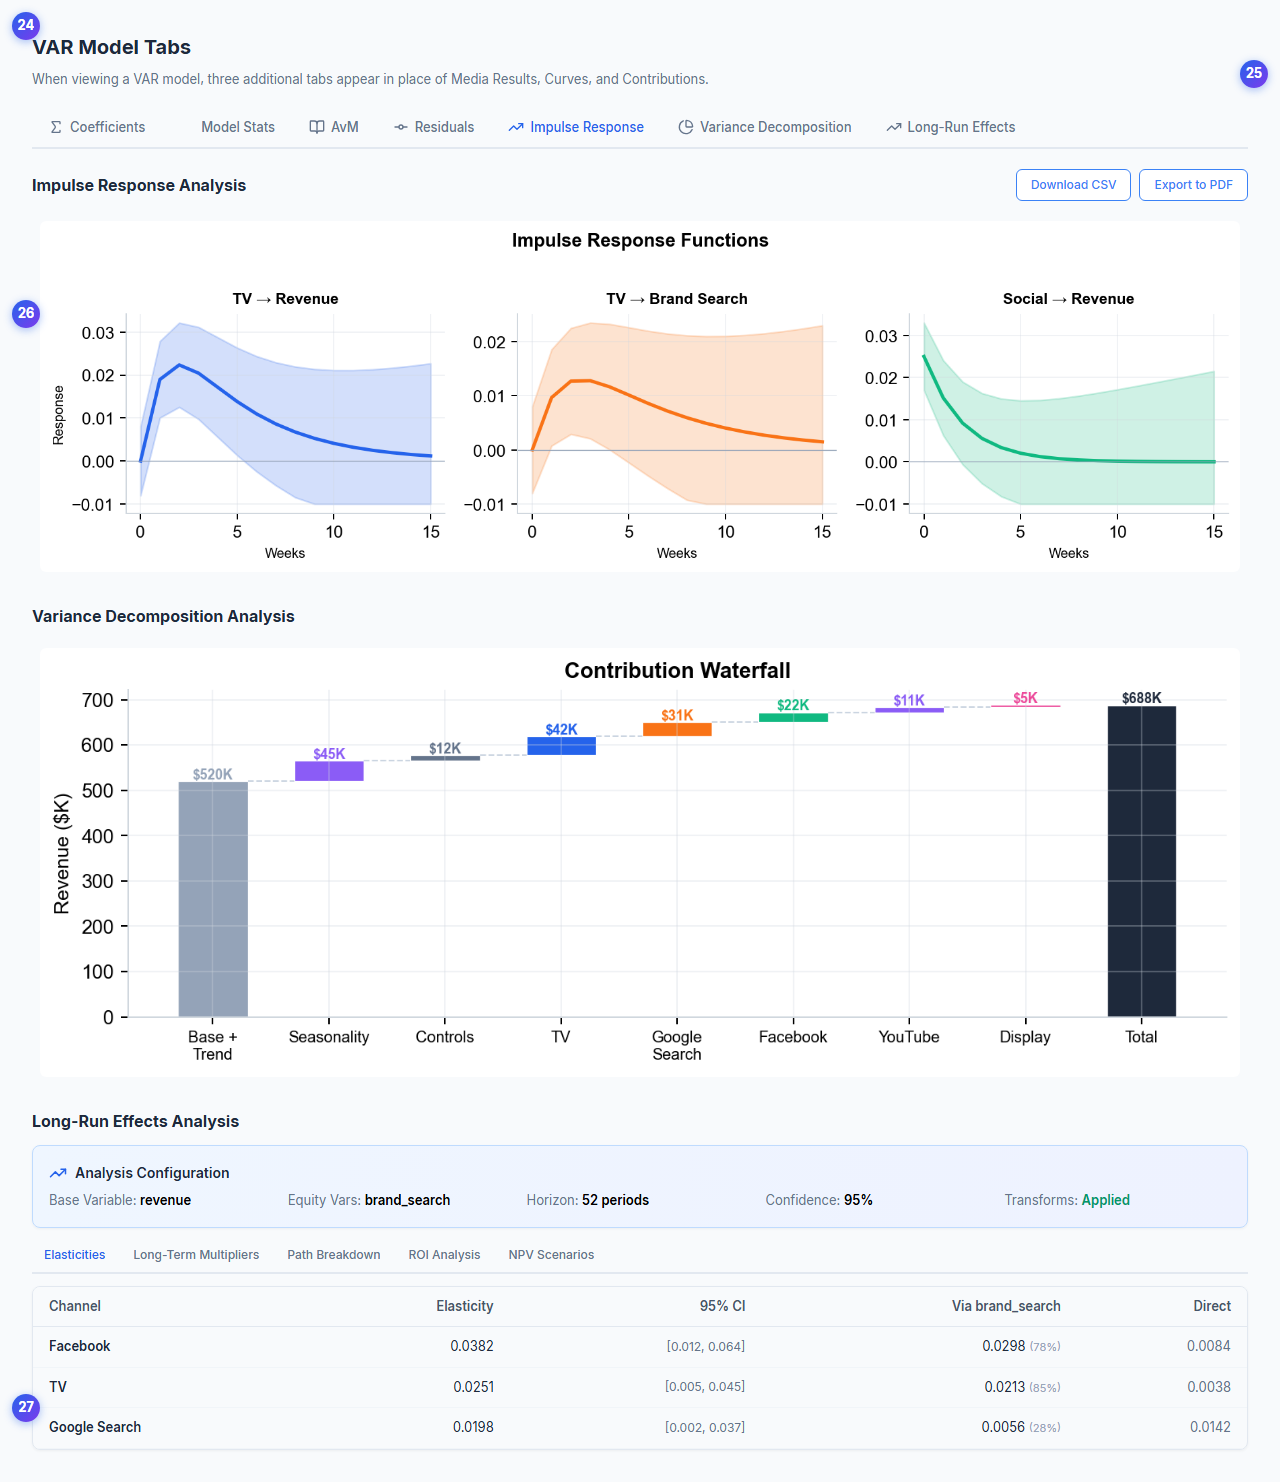
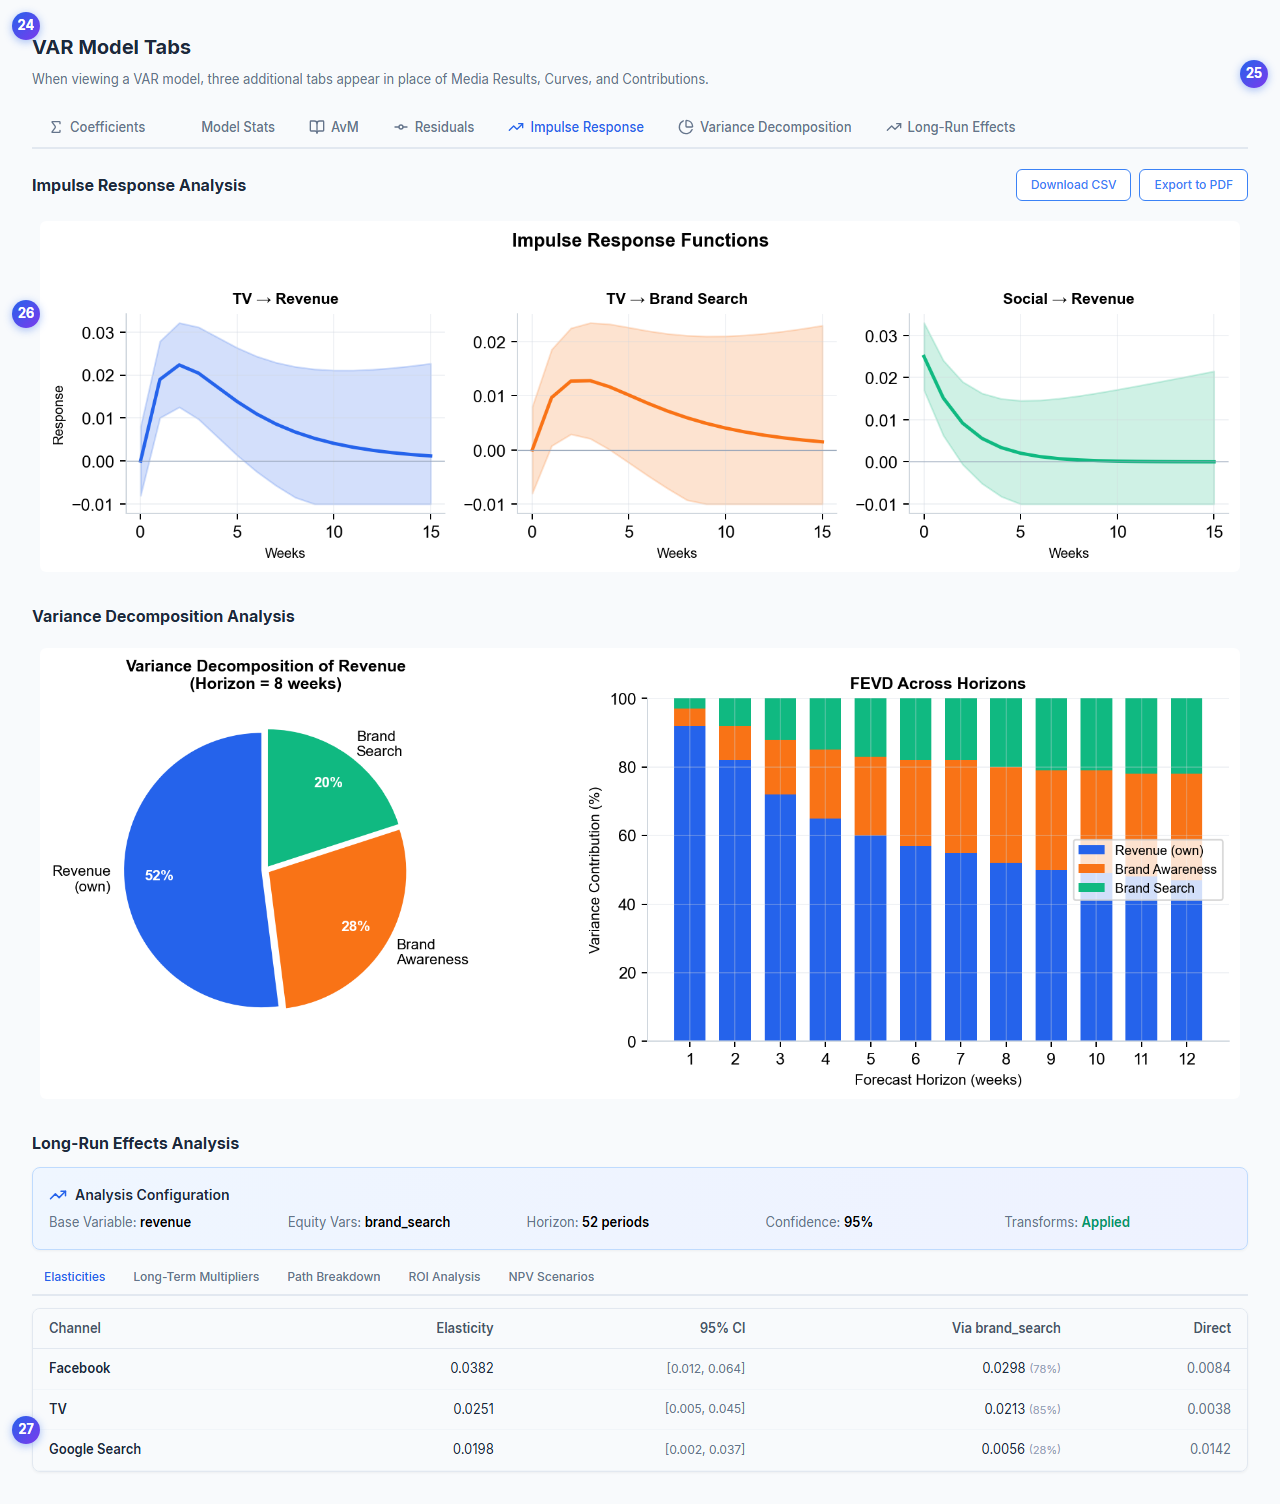
docs: fix measurement charts — accurate FEVD, residuals, AvM + cross-references
Chart fixes:
- FEVD: replaced waterfall (wrong) with pie chart + stacked bar (correct)
  matching the two view modes in VarianceDecomposition component
- Residuals: added ±1 SD blue band and ±2 SD yellow dotted lines
  matching the actual Time Series sub-tab confidence bands
- AvM: improved labels (Actual dark, Posterior Predictive blue, 94% HDI band)

Cross-reference additions:
- Media Results: links to VAR modeling and budget optimization core concepts
- Contributions: links to halo effects for halo/trademark channel badges

diff --git a/docs/platform-guide/measurement.md b/docs/platform-guide/measurement.md
@@ -137,7 +137,7 @@ For VAR models, a variable selector dropdown lets you inspect residuals for each
 
 The Media Results tab is the primary performance dashboard for channel-level analysis. It contains several sections:
 
-**Executive Summary Cards** --- Three KPI cards showing Total Revenue, Media Spend, and Overall ROI (revenue / spend). When a linked VAR model provides long-run elasticities, a "Long Run Effects" toggle transforms all metrics to include brand-building multipliers.
+**Executive Summary Cards** --- Three KPI cards showing Total Revenue, Media Spend, and Overall ROI (revenue / spend). When a linked [VAR model](../core-concepts/var-modeling.md) provides long-run elasticities, a "Long Run Effects" toggle transforms all metrics to include brand-building multipliers. These metrics feed directly into [budget optimization](../core-concepts/budget-optimization.md) recommendations.
 
 **Channel Control Panel** --- A chip-based selector for toggling individual channels on and off. Deselecting a channel removes it from all charts and tables below.
 
@@ -202,7 +202,7 @@ The Contributions tab decomposes the target variable into its component drivers 
 
 **Summary Cards** --- Four KPIs: Top Contributor (highest overall driver, typically Base), Top Media Channel, Media Contribution (% of total driven by media), and Base/Other Factors (non-media portion).
 
-**Channel Color Customizer** --- Assign custom colors to individual channels for consistent visualization across all tabs and exports.
+**Channel Color Customizer** --- Assign custom colors to individual channels for consistent visualization across all tabs and exports. [Halo channels](../core-concepts/halo-effects.md) and trademark channels are distinguished with purple and amber badges respectively.
 
 **Driver Grouping** --- Create custom groups that aggregate channels for higher-level reporting. For example, group Facebook + Instagram + TikTok into "Paid Social". Groups and their colors persist across sessions and sync to the Optimizer and Scenario Planner.
 
